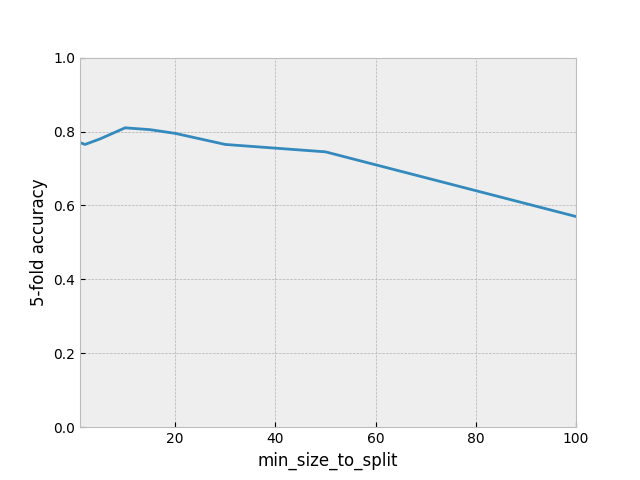
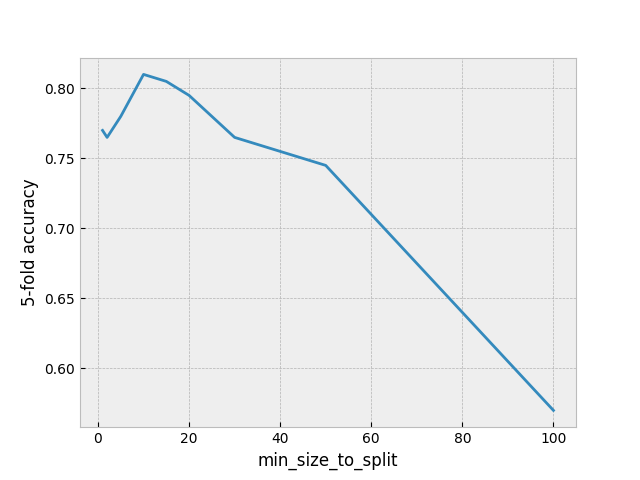
got rid of limits on x and y for graph

diff --git a/tests/test_decision_tree.py b/tests/test_decision_tree.py
@@ -145,8 +145,8 @@ for min_size in min_sizes:
 
 plt.style.use('bmh')
 plt.plot(min_sizes, correct_percentages)
-plt.xlim(1,100)
-plt.ylim(0,1)
+#plt.xlim(1,100)
+#plt.ylim(0,1)
 plt.xlabel('min_size_to_split')
 plt.ylabel('5-fold accuracy')
 plt.savefig('min_size_vs_accuracy.png')
